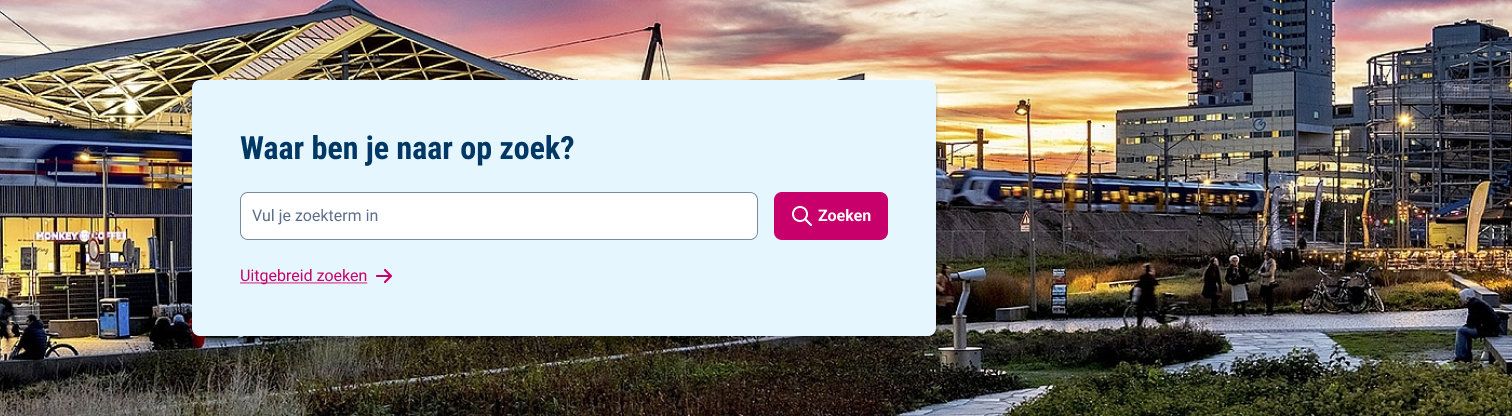
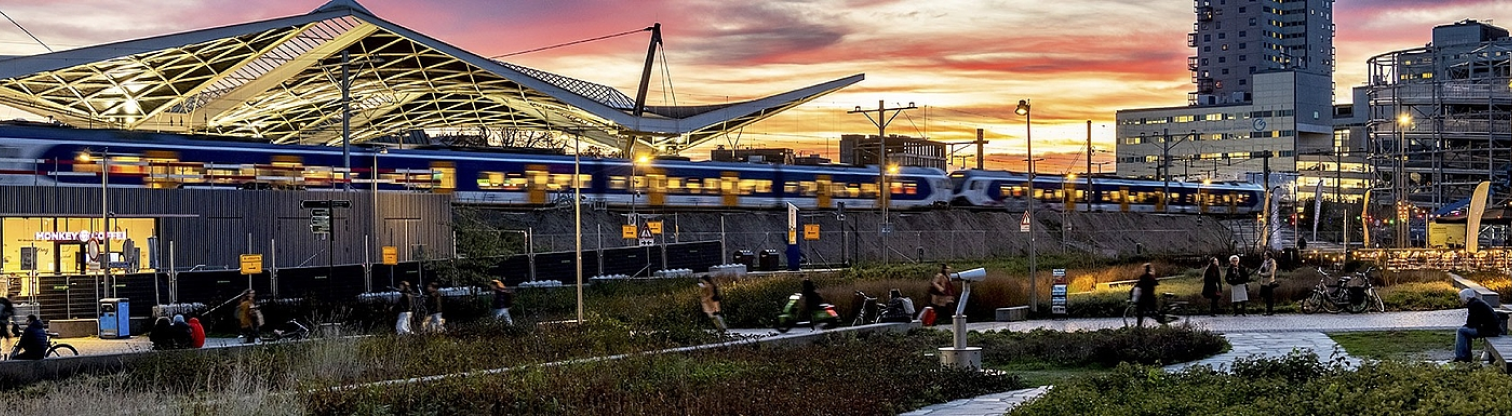
Add background image to hero

diff --git a/src/components/tilburg-hero/tilburg-hero.js b/src/components/tilburg-hero/tilburg-hero.js
@@ -11,7 +11,7 @@ const TilburgHero = () => {
 
     const _CLASSES = clsx('tilburg-hero')
     return (
-        <section className={_CLASSES}>
+        <section className={_CLASSES} style="background-image: url('/home-hero-background.png');">
             <TilburgContainer>
                 <TilburgCard blue padding="lg">
                     <TilburgSearchbox home label="Waar ben je naar op zoek?" />

diff --git a/src/styles/components/_tilburg-hero.scss b/src/styles/components/_tilburg-hero.scss
@@ -5,6 +5,7 @@
   // background: url('/home-hero-background.png') ;
   background-repeat: no-repeat;
   background-position: center center;
+  background-size: cover;
   background-color: var(--tilburg-color-blue-500);
   padding-block: var(--tilburg-space-row-elephant);
 
